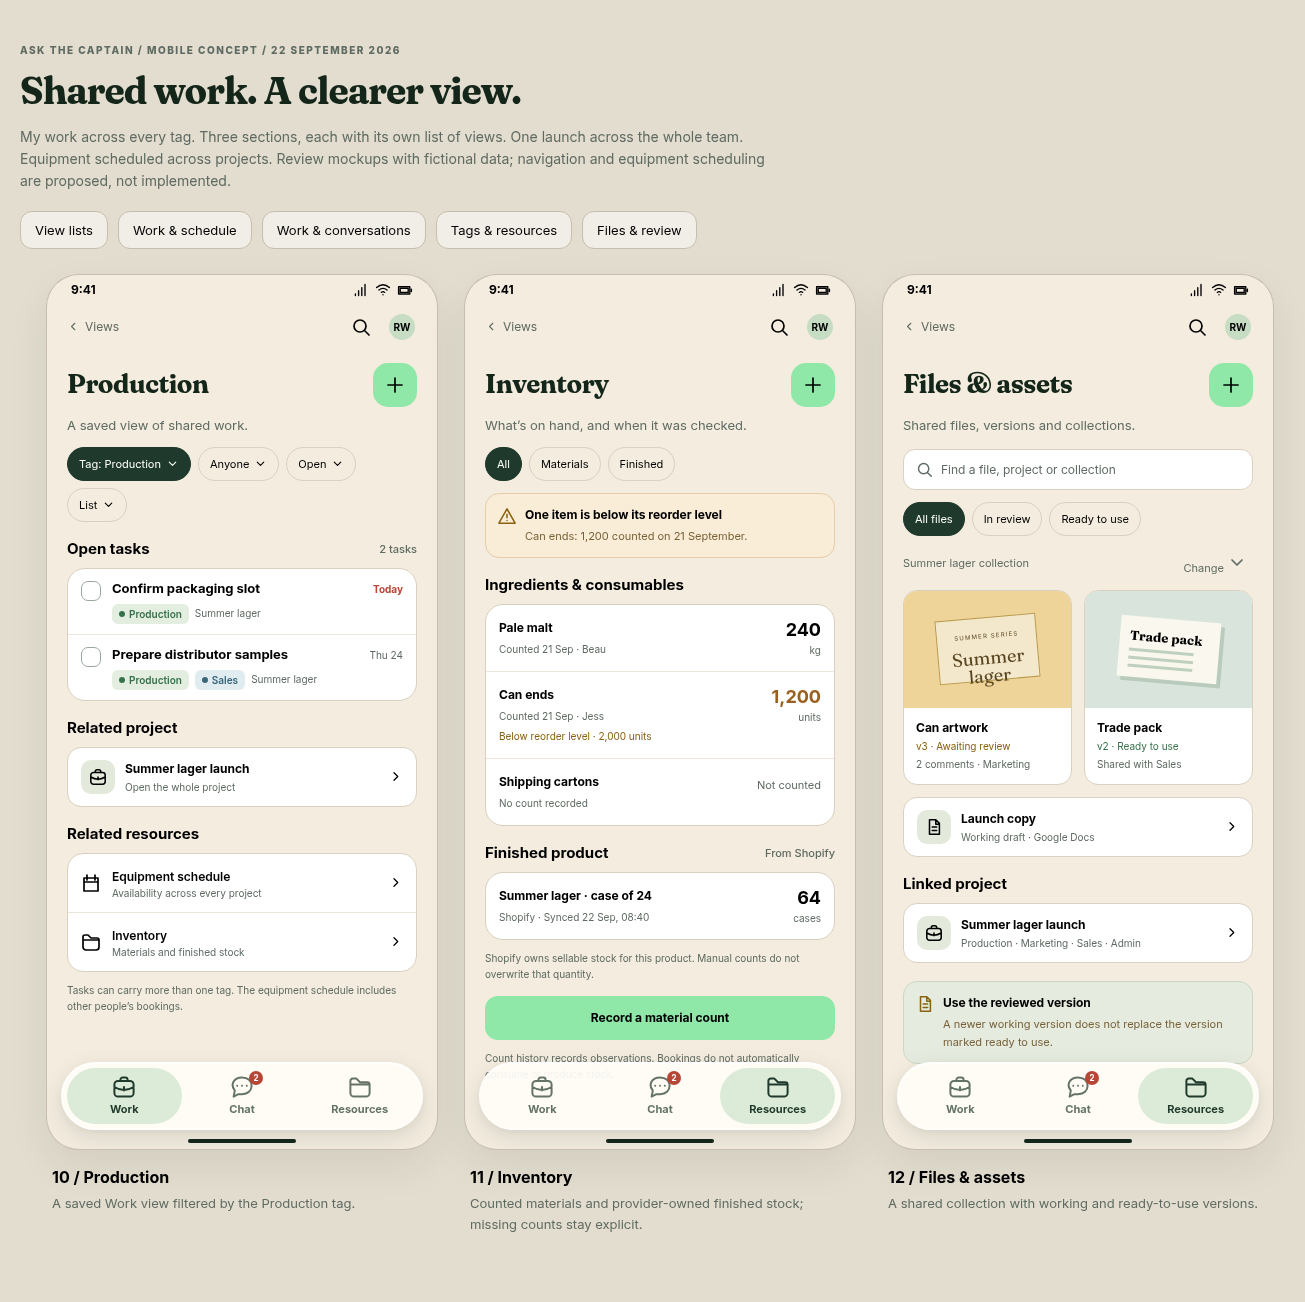
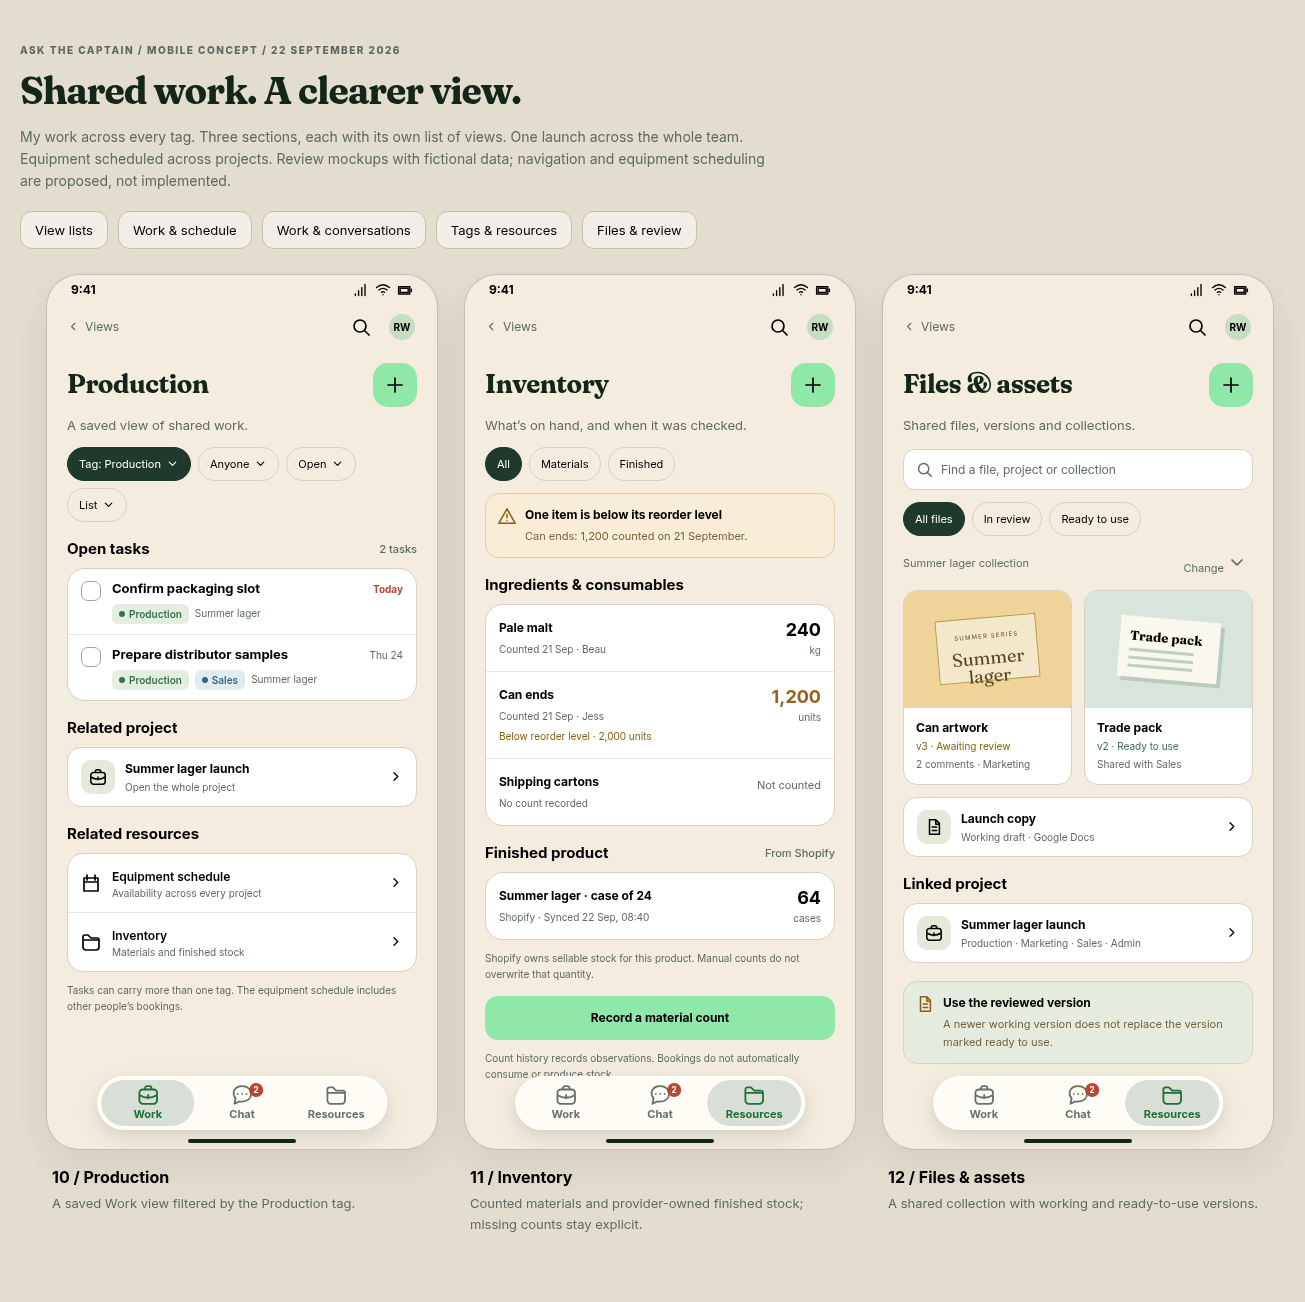
docs(design): compact mobile tab bar and refine selected state

Changed region(s): [[0.705, 0.7988, 0.9502, 0.8909], [0.3678, 0.7988, 0.613, 0.8909], [0.0613, 0.7988, 0.3065, 0.8909]]

diff --git a/docs/proposals/assets/captain-mobile-2026-09-22/navigation.css b/docs/proposals/assets/captain-mobile-2026-09-22/navigation.css
@@ -1,16 +1,18 @@
 /* Floating capsule inspired by the supplied tab-bar reference, in Captain's palette. */
 .bottom-nav {
-  left: 14px;
-  right: 14px;
+  left: 50%;
+  right: auto;
+  width: calc(80% - 22.4px);
+  transform: translateX(-50%);
   bottom: 19px;
-  height: 68px;
-  padding: 5px;
+  height: 54px;
+  padding: 3px;
   border: 1px solid #ffffffcc;
-  border-radius: 38px;
+  border-radius: 30px;
   background: #fffdf7ed;
   backdrop-filter: blur(18px);
   box-shadow: 0 3px 8px #1426190a, 0 8px 26px #1426191a, inset 0 1px 0 #fff;
-  gap: 3px;
+  gap: 1px;
 }
 .bottom-nav a {
   width: auto;
@@ -18,16 +20,16 @@
   min-width: 44px;
   min-height: 44px;
   border-radius: 30px;
-  gap: 3px;
+  gap: 1px;
   font-size: 11px;
   font-weight: 650;
   color: #647367;
 }
-.bottom-nav svg { width: 24px; height: 24px; stroke-width: 1.65; }
-.bottom-nav .active { background: #dcebd8; color: #1f3a2c; }
+.bottom-nav svg { width: 22px; height: 22px; stroke-width: 1.65; }
+.bottom-nav .active { background: #d9ded6; color: #197334; }
 .bottom-nav .active::before { content: none; }
 .bottom-nav .badge { top: 3px; left: calc(50% + 7px); }
-.content { height: 800px; padding-bottom: 112px; scroll-padding-bottom: 112px; }
+.content { height: 800px; padding-bottom: 98px; scroll-padding-bottom: 98px; }
 .single .content { height: calc(100dvh - 74px); min-height: 606px; }
 .app-header .crumb { min-height: 44px; margin-bottom: 0; }
 .sr-only { position: absolute; width: 1px; height: 1px; padding: 0; margin: -1px; overflow: hidden; clip: rect(0,0,0,0); white-space: nowrap; }

diff --git a/docs/proposals/assets/captain-mobile-2026-09-22/README.md b/docs/proposals/assets/captain-mobile-2026-09-22/README.md
@@ -69,7 +69,10 @@ and the other presentation layouts remain to implement.
 ## Visual direction
 
 The supplied Taildrop tab-bar example informs the floating capsule, rounded corners, subtle
-shadow and soft selected pill around both icon and label. The three rounded icons are a
+shadow and selected pill around both icon and label. The compact bar is about 80% of the
+previous width and height (about 290 × 54px on a 390px phone), with most of the reduction
+coming from spacing. Icons are 22px and labels remain 11px. The selected pill uses a darker
+grey-green background with green icon and text. The three rounded icons are a
 briefcase, conversation bubble and folder, freshly authored for the prototype. Labels stay
 visible and each tab target exceeds 44 CSS pixels. Scroll content reserves bottom space so
 its final controls can clear the floating bar.

diff --git a/docs/proposals/2026-09-22-captain-and-pip.md b/docs/proposals/2026-09-22-captain-and-pip.md
@@ -109,7 +109,8 @@ is narrowed to one person, project or tag. A filtered task list must never imply
 equipment is free.
 
 The bottom bar follows the supplied Taildrop reference: a floating rounded capsule inset from
-the screen edges, with a soft selected pill encompassing icon and label. Rounded briefcase,
+the screen edges, sized to about 80% of the initial capsule by reducing spacing more than
+icons or text. A darker grey-green selected pill uses green icon and label. Rounded briefcase,
 conversation and folder icons identify Work, Chat and Resources, using Captain's forest/paper/
 mint palette. Labels remain visible, tap targets are at least 44 CSS pixels, and content has
 bottom space so the bar does not cover the last item. The compact header keeps the breadcrumb,

diff --git a/docs/proposals/assets/captain-mobile-2026-09-22/views.md b/docs/proposals/assets/captain-mobile-2026-09-22/views.md
@@ -44,6 +44,8 @@ consume stock. Xero remains accounting authority, with links from business recor
 Search and account/settings belong in the header, outside the three-tab bar. Their detailed
 screens are still to design. The bar uses a floating capsule, rounded icons and a soft selected
 pill based on the supplied Taildrop reference, with Captain's colours and visible labels.
+The compact bar is about 80% of its initial width and height; the selected pill is darker than
+the bar, with green icon and text.
 
 ![Tag, person and project filters select the same task and linked records](relationships.png)
 
